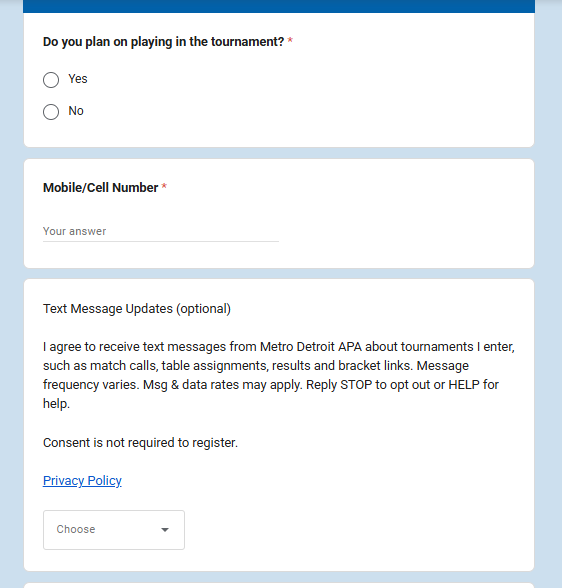
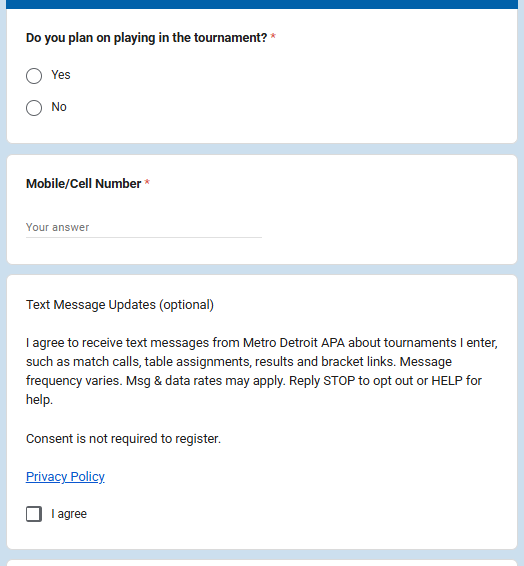
Opt-in proof: the registration form now uses an unchecked I agree checkbox

Changed region(s): [[0.0, 0.0, 1.0, 1.0]]

diff --git a/opt-in.html b/opt-in.html
@@ -34,9 +34,9 @@
     <a href="https://docs.google.com/forms/d/e/1FAIpQLSfQjyEiGtPt_xEz8nW5RfrGrz8CCkNh7mJsxC3QAfAf85HFKg/viewform">tournament registration form</a>.
     It opens for each event's registration window and is closed between events, so the consent question is shown
     below as it appears on the form.</p>
-  <p>After entering their mobile number, players see an optional "Text Message Updates" question. It starts blank
-    and is not required to register.</p>
-  <img src="registration-form-opt-in.png" alt="The tournament registration form: Mobile/Cell Number, then the optional Text Message Updates question with its consent wording, a Privacy Policy link and a blank Choose dropdown.">
+  <p>After entering their mobile number, players see an optional "Text Message Updates" section with an unchecked
+    "I agree" checkbox. Checking it is not required to register.</p>
+  <img src="registration-form-opt-in.png?v=2" alt="The tournament registration form: Mobile/Cell Number, then the optional Text Message Updates section with its consent wording, a Privacy Policy link and an unchecked I agree checkbox.">
 
   <h2>2. Contact List Opt-In form</h2>
   <p>Members can opt in at any time on our
